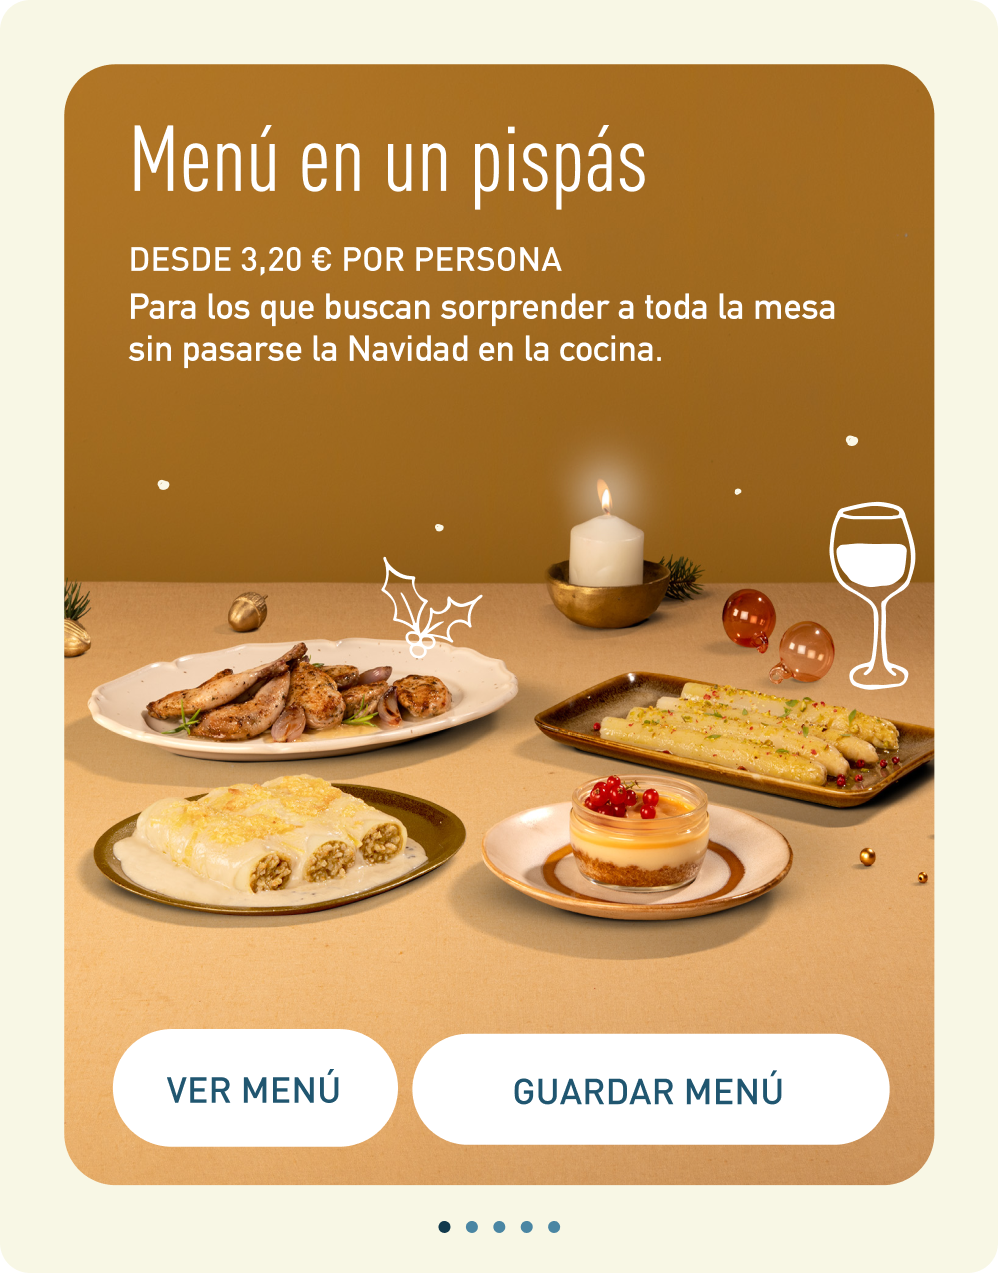
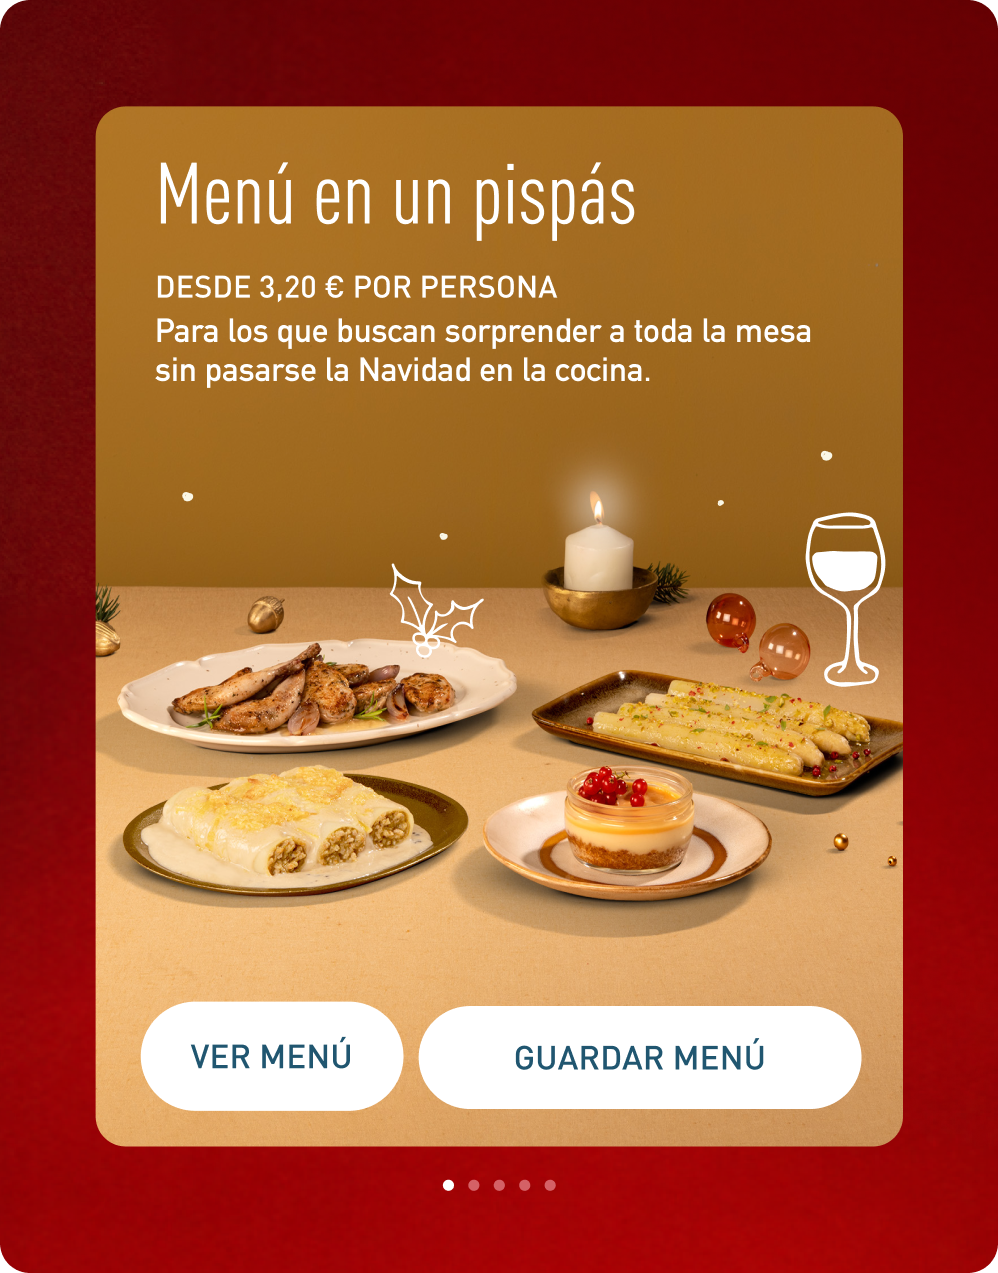
ALDI Planner: nuevas imágenes 6 y 7 en la página del caso

diff --git a/aldiplanner.html b/aldiplanner.html
@@ -204,14 +204,14 @@ For ALDI, the challenge went beyond sharing recipes. It needed a useful, easy-to
 
 		<div class="one_half">
 			<figure class="has-animation has-cover" data-delay="2">
-						<a href="images/aldiplanner/aldi_planner_img_6.png" class="image-link"><img src="images/aldiplanner/aldi_planner_img_6.png" alt="Image Title"></a>
+						<a href="images/aldiplanner/aldi_planner_img_6.png?v=3" class="image-link"><img src="images/aldiplanner/aldi_planner_img_6.png?v=3" alt="Image Title"></a>
 
 				</figure>
 		</div>
 
 		<div class="one_half last">
 			<figure class="has-animation has-cover" data-delay="100">
-						<a href="images/aldiplanner/aldi_planner_img_7.png" class="image-link"><img src="images/aldiplanner/aldi_planner_img_7.png" alt="Image Title"></a>
+						<a href="images/aldiplanner/aldi_planner_img_7.png?v=3" class="image-link"><img src="images/aldiplanner/aldi_planner_img_7.png?v=3" alt="Image Title"></a>
 
 				</figure>
 		</div>
